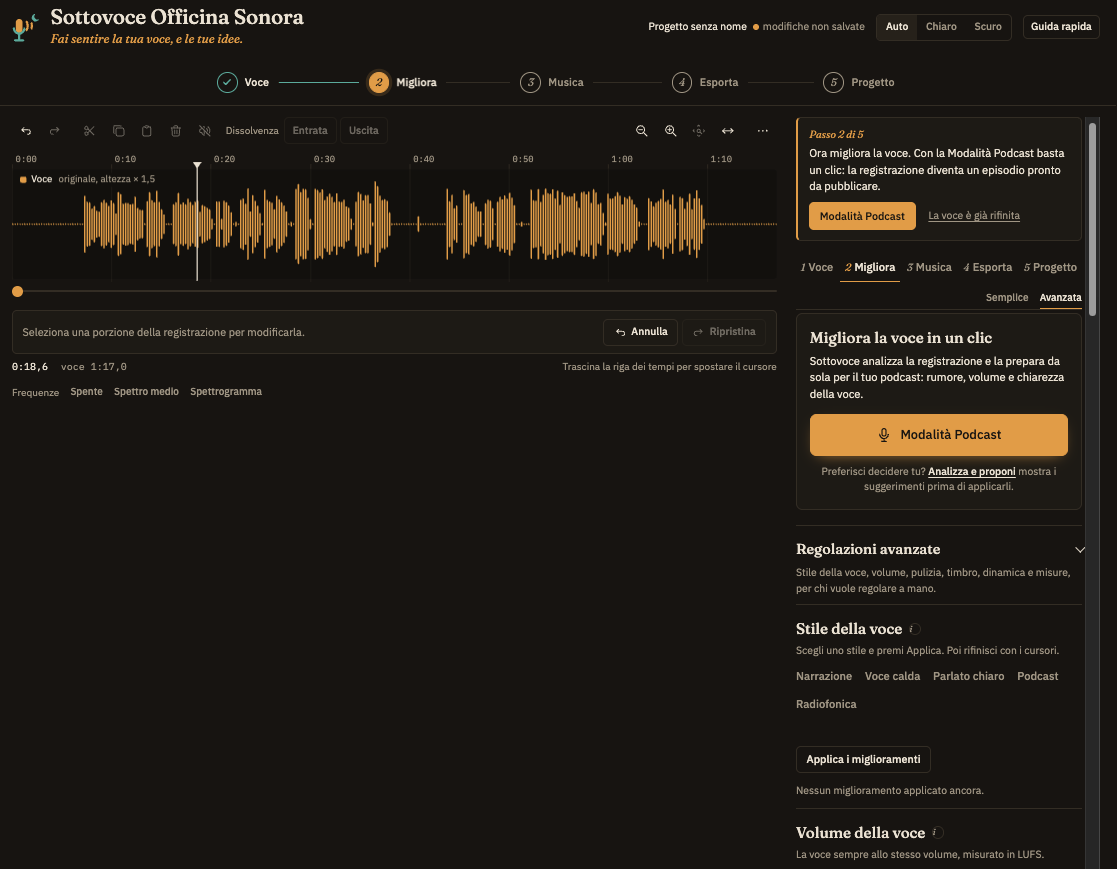
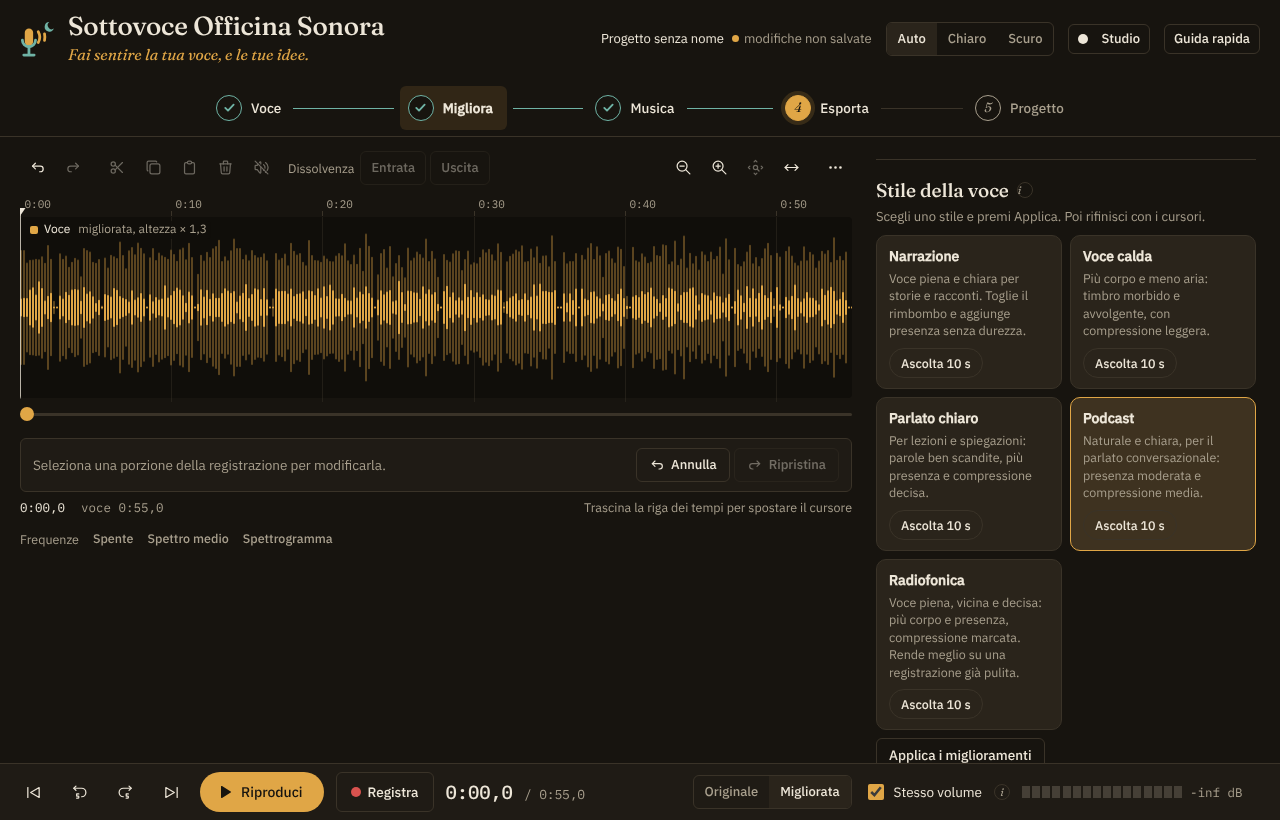
Versione 2.0.0: README e screenshot nuovi
- Numero di versione 2.0.0 nell'app e nei file salvati.
- README riscritto per la v2: cinque passi, funzioni nuove, browser,
  novità della versione 2, link alla Release v1.0.0; cinque screenshot
  nuovi (voce, Studio, stili, sigla e chiusura, misuratore).
- strumenti/prova-v1.mjs: un progetto salvato con la v1 vera si apre
  nella v2 con modifiche, voce migliorata, musica e regolazioni, e si
  esporta (8 controlli).
- Il resoconto dei prototipi passa in prototipi/RESOCONTO.md.

Claude-Session: https://claude.ai/code/session_01BttpVemefpyUw5Aya9nw8Y

diff --git a/index.html b/index.html
@@ -966,7 +966,7 @@ dialog.studio::backdrop{background:var(--bg)}
   </div>
 
   <footer class="foot">
-    <span>Sottovoce Officina Sonora 1.0.0. Copyright (c) 2026 Roberto Lanza. Licenza: PolyForm Noncommercial 1.0.0.</span>
+    <span>Sottovoce Officina Sonora 2.0.0. Copyright (c) 2026 Roberto Lanza. Licenza: PolyForm Noncommercial 1.0.0.</span>
     <span>Funziona nel browser, anche senza internet. Strumento gratuito, offerto così com'è, senza garanzie. L'audio non lascia il tuo computer.</span>
     <button class="linkbtn" id="btnInfo">Informazioni e licenze</button>
   </footer>
@@ -1004,7 +1004,7 @@ dialog.studio::backdrop{background:var(--bg)}
   <path d="M346.5 161.7A160 160 0 0 1 346.5 228.3" fill="none" stroke="var(--logo-a)" stroke-width="28" stroke-linecap="round"/>
   <path d="M394.9 44.0A48 48 0 1 0 440.7 109.5A40 40 0 0 1 394.9 44.0Z" fill="var(--logo-b)"/>
   </g></svg><div><h2 id="infoT" style="margin:0">Informazioni e licenze</h2><p class="slogan" style="margin:2px 0 0">Sottovoce. Fai sentire la tua voce, e le tue idee.</p></div></div>
-  <p><b>Sottovoce Officina Sonora</b>, versione 1.0.0, è stato ideato da Roberto Lanza.<br>Copyright (c) 2026 Roberto Lanza. Licenza: PolyForm Noncommercial 1.0.0.</p>
+  <p><b>Sottovoce Officina Sonora</b>, versione 2.0.0, è stato ideato da Roberto Lanza.<br>Copyright (c) 2026 Roberto Lanza. Licenza: PolyForm Noncommercial 1.0.0.</p>
   <h3>Condizioni d’uso</h3>
   <p>Libero per uso personale, didattico e senza scopo di lucro. Non è consentito l’uso commerciale.</p>
   <p class="note">Questo è un riassunto in parole semplici: fa fede il testo ufficiale della licenza, in inglese, qui sotto e su <a href="https://polyformproject.org/licenses/noncommercial/1.0.0" target="_blank" rel="noopener">polyformproject.org/licenses/noncommercial/1.0.0</a>.</p>
@@ -3256,7 +3256,7 @@ SOFTWARE.
 // formato dei progetti e dei preset): così progetti, preset e impostazioni salvati continuano a funzionare.
 const APP_NAME = 'Sottovoce Officina Sonora';
 // numero di versione del programma (anche questo letto da build.py); nei progetti va accanto al numero di formato, che resta 1
-const APP_VERSION = '1.0.0';
+const APP_VERSION = '2.0.0';
 // confronto tra versioni scritte come 1.2.3: positivo se a è più recente di b
 const cmpVersion = (a, b) => { const x = String(a).split('.').map(n => parseInt(n, 10) || 0), y = String(b).split('.').map(n => parseInt(n, 10) || 0); for (let i = 0; i < 3; i++) if ((x[i] || 0) !== (y[i] || 0)) return (x[i] || 0) - (y[i] || 0); return 0; };
 // frase di chiarezza, testuale (verificata nel codice: nessuna richiesta di rete, nessun invio di dati, nessuna analisi esterna)

diff --git a/src/index.html b/src/index.html
@@ -352,7 +352,7 @@
   </div>
 
   <footer class="foot">
-    <span>Sottovoce Officina Sonora 1.0.0. Copyright (c) 2026 Roberto Lanza. Licenza: PolyForm Noncommercial 1.0.0.</span>
+    <span>Sottovoce Officina Sonora 2.0.0. Copyright (c) 2026 Roberto Lanza. Licenza: PolyForm Noncommercial 1.0.0.</span>
     <span>Funziona nel browser, anche senza internet. Strumento gratuito, offerto così com'è, senza garanzie. L'audio non lascia il tuo computer.</span>
     <button class="linkbtn" id="btnInfo">Informazioni e licenze</button>
   </footer>
@@ -390,7 +390,7 @@
   <path d="M346.5 161.7A160 160 0 0 1 346.5 228.3" fill="none" stroke="var(--logo-a)" stroke-width="28" stroke-linecap="round"/>
   <path d="M394.9 44.0A48 48 0 1 0 440.7 109.5A40 40 0 0 1 394.9 44.0Z" fill="var(--logo-b)"/>
   </g></svg><div><h2 id="infoT" style="margin:0">Informazioni e licenze</h2><p class="slogan" style="margin:2px 0 0">Sottovoce. Fai sentire la tua voce, e le tue idee.</p></div></div>
-  <p><b>Sottovoce Officina Sonora</b>, versione 1.0.0, è stato ideato da Roberto Lanza.<br>Copyright (c) 2026 Roberto Lanza. Licenza: PolyForm Noncommercial 1.0.0.</p>
+  <p><b>Sottovoce Officina Sonora</b>, versione 2.0.0, è stato ideato da Roberto Lanza.<br>Copyright (c) 2026 Roberto Lanza. Licenza: PolyForm Noncommercial 1.0.0.</p>
   <h3>Condizioni d’uso</h3>
   <p>Libero per uso personale, didattico e senza scopo di lucro. Non è consentito l’uso commerciale.</p>
   <p class="note">Questo è un riassunto in parole semplici: fa fede il testo ufficiale della licenza, in inglese, qui sotto e su <a href="https://polyformproject.org/licenses/noncommercial/1.0.0" target="_blank" rel="noopener">polyformproject.org/licenses/noncommercial/1.0.0</a>.</p>

diff --git a/src/js/00-util.js b/src/js/00-util.js
@@ -4,7 +4,7 @@
 // formato dei progetti e dei preset): così progetti, preset e impostazioni salvati continuano a funzionare.
 const APP_NAME = 'Sottovoce Officina Sonora';
 // numero di versione del programma (anche questo letto da build.py); nei progetti va accanto al numero di formato, che resta 1
-const APP_VERSION = '1.0.0';
+const APP_VERSION = '2.0.0';
 // confronto tra versioni scritte come 1.2.3: positivo se a è più recente di b
 const cmpVersion = (a, b) => { const x = String(a).split('.').map(n => parseInt(n, 10) || 0), y = String(b).split('.').map(n => parseInt(n, 10) || 0); for (let i = 0; i < 3; i++) if ((x[i] || 0) !== (y[i] || 0)) return (x[i] || 0) - (y[i] || 0); return 0; };
 // frase di chiarezza, testuale (verificata nel codice: nessuna richiesta di rete, nessun invio di dati, nessuna analisi esterna)

diff --git a/README.md b/README.md
@@ -6,33 +6,62 @@
 
 *Fai sentire la tua voce, e le tue idee.*
 
-![Sottovoce: registrazione e importazione della voce](screenshots/01-voce.png)
+![Sottovoce: la voce sulla linea del tempo e le regolazioni della registrazione](screenshots/01-voce.png)
 
-## In tre passaggi
+## In cinque passi
 
-**1. La voce.** Registri o importi la tua voce.
+**1. La voce.** Registri nello **Studio**, a tutto schermo, oppure importi una registrazione già fatta. Poi monti: tagli, silenzi, pause troppo lunghe.
 
-**2. Migliora.** Un clic con la Modalità Podcast, oppure scegli uno stile e rifinisci a mano.
+![Sottovoce: lo Studio per registrare, con il livello del microfono e la zona giusta](screenshots/04-studio.png)
 
-![Sottovoce: miglioramento della voce](screenshots/02-migliora.png)
+**2. Migliora.** Un clic con la **Modalità Podcast**, oppure scegli uno stile, dopo averlo ascoltato sulla tua voce con **Ascolta 10 s**, e rifinisci a mano.
 
-**3. La musica.** Aggiungi il tappeto: scende da solo quando parli e risale nelle pause.
+![Sottovoce: gli stili della voce, ognuno con Ascolta 10 s](screenshots/02-migliora.png)
 
-![Sottovoce: musica e ducking](screenshots/03-musica.png)
+**3. La musica.** Sigla all'inizio, tappeto sotto la voce, chiusura alla fine. Il tappeto scende da solo quando parli e risale nelle pause.
+
+![Sottovoce: sigla, tappeto musicale e chiusura sulla linea del tempo](screenshots/03-musica.png)
+
+**4. Esporta.** MP3 per pubblicare o WAV per lavorarci ancora, con titolo, autore e copertina. Il misuratore ti dice se il volume è quello giusto per i podcast.
+
+![Sottovoce: l'esportazione con il misuratore del volume finale](screenshots/05-esporta.png)
+
+**5. Progetto.** Il lavoro si salva da solo. Con un **modello di serie** il prossimo episodio parte già con sigla, musica, chiusura e dati al loro posto.
 
 ## Cosa fa
 
 - **Pulisce la voce** con RNNoise, un modello di intelligenza artificiale che toglie il rumore di fondo
-- **Stili pronti per la voce:** Narrazione, Voce calda, Parlato chiaro, Podcast, Radiofonica
+- **Stili pronti per la voce:** Narrazione, Voce calda, Parlato chiaro, Podcast, Radiofonica, da ascoltare sulla tua voce prima di sceglierli
 - **Rifiniture mirate:** de-esser per le "s", attenuazione di p e b esplosive, anti-ronzio, respiri e click di bocca
-- **Registrazione e montaggio:** registri direttamente nell'app, tagli, crei silenzi, accorci le pause troppo lunghe
+- **Studio per registrare:** il tempo grande, il livello del microfono con la zona giusta e un solo pulsante
+- **Montaggio:** tagli, crei silenzi, accorci le pause troppo lunghe; tutto si annulla
 - **Volume costante**, misurato in LUFS come richiedono le piattaforme di podcast
+- **Sigla e chiusura** sempre al loro posto, anche quando la voce cambia lunghezza
 - **Ducking automatico:** la musica si abbassa quando parli e risale nelle pause
+- **Modelli di serie:** sigla, musica, chiusura, regolazioni, autore e copertina pronti per ogni episodio nuovo, con il numero dell'episodio che sale da solo
+- **Progetto salvato in un file:** con Chrome ed Edge ogni modifica si salva da sola nel file che scegli
 - **Esporta** in MP3 o WAV, con titolo, autore e copertina già inseriti nel file
+- **Si usa anche su tablet e telefono**, con i comandi a misura di dito
 
 ## I tuoi file restano tuoi
 
-Tutto il lavoro avviene nel tuo browser. I file audio non vengono caricati su nessun server e non lasciano mai il tuo computer.
+Tutto il lavoro avviene nel tuo browser. I file audio non vengono caricati su nessun server e non lasciano mai il tuo computer. Una volta aperta, l'app funziona anche senza internet.
+
+## Quale browser
+
+Sottovoce funziona con Chrome, Edge, Firefox e Safari aggiornati. Con **Chrome ed Edge** il progetto si collega a un file sul computer e si salva da solo; con gli altri browser "Salva il progetto" scarica il file, come un documento qualsiasi.
+
+## Novità della versione 2
+
+- Studio per registrare a tutto schermo, e la forma d'onda visibile mentre registri
+- Sigla e chiusura, e modelli di serie
+- Progetto collegato a un file, con salvataggio automatico
+- "Ascolta 10 s" per sentire uno stile prima di applicarlo
+- Misuratore del volume finale nella scheda Esporta
+- Una sola navigazione, più spazio alla linea del tempo, schermi touch più comodi
+- Forma d'onda con picco e volume medio, e musica disegnata con il suo volume rispetto alla voce
+
+I progetti salvati con la versione 1 si aprono anche nella 2. La versione 1 resta scaricabile dalla [Release v1.0.0](https://github.com/raefsky/sottovoce/releases/tag/v1.0.0).
 
 ## Come è nata
 
@@ -47,6 +76,10 @@ Così, a un certo punto, mi sono chiesto: perché non costruirla io, con l'aiuto
 ## Autore
 
 Roberto Lanza. Insegno scienze, racconto storie in un podcast e mi diverto a costruire gli strumenti per farlo.
+
+## Per chi sviluppa
+
+L'app pubblicata è un file solo, `index.html`, montato dai sorgenti in `src/`. Come montarla e provarla è spiegato in [SVILUPPO.md](SVILUPPO.md).
 
 ## Licenza
 

diff --git a/SVILUPPO.md b/SVILUPPO.md
@@ -86,6 +86,16 @@ node strumenti/prova-mobile.mjs
 
 Nelle prove su telefono e tablet niente fotografie a pagina intera prima delle misure: fanno perdere a Chromium l'emulazione del touch.
 
+Per la compatibilità con i progetti della versione 1 (salvati con l'app del tag `v1.0.0`):
+
+```bash
+git show v1.0.0:index.html > /tmp/sottovoce-v1.html
+```
+
+```bash
+node strumenti/prova-v1.mjs /tmp/sottovoce-v1.html
+```
+
 Il volume di un file mono si misura come se suonasse su due casse, come fa l'app: -16 LUFS su due casse corrisponde a -19 LUFS misurati su un canale solo, la raccomandazione AES per i podcast in mono.
 
 ## Pubblicare
